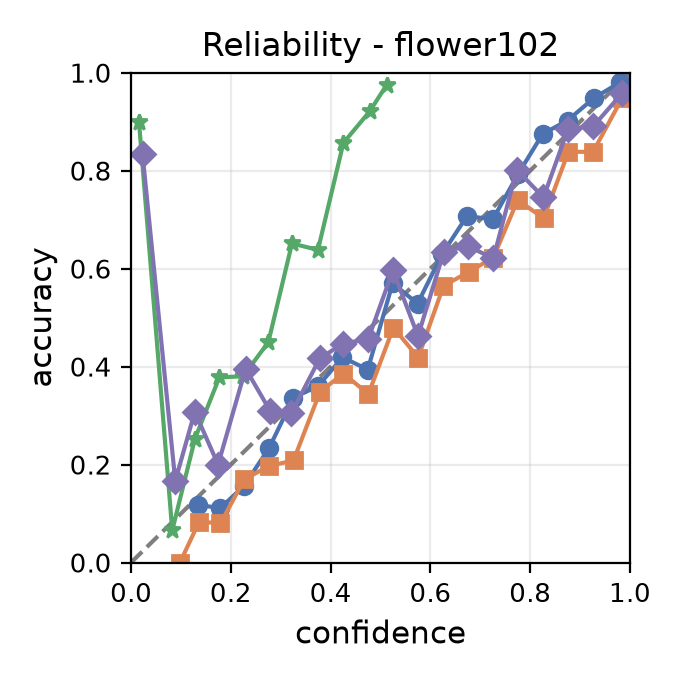
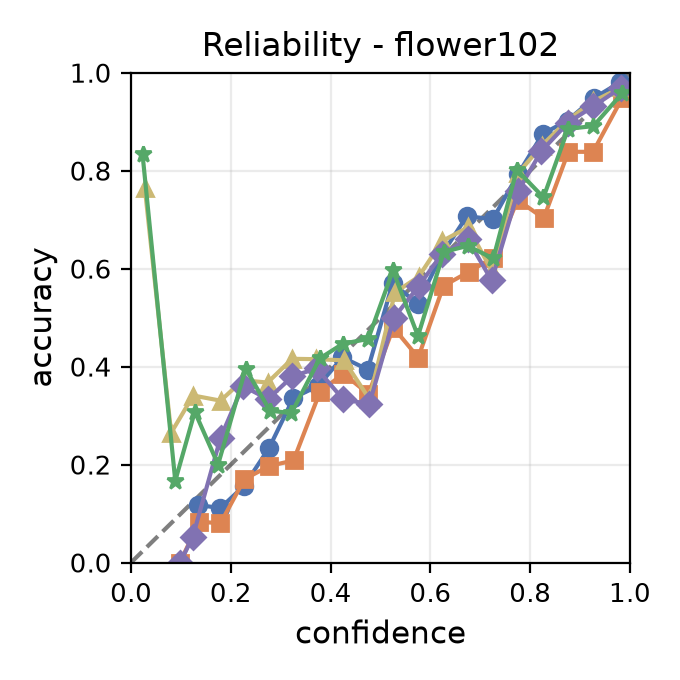
feat(figures): scatter and reliability diagrams over the five headline methods

diff --git a/analysis/make_figures.py b/analysis/make_figures.py
@@ -1,7 +1,9 @@
 """Generate every figure the report uses. No manual plotting, ever.
 
 Headline claim, stated visually: our point should sit as far right as TDA
-(same accuracy) but as far down as zero-shot CLIP (honest confidence).
+(same accuracy) but as far down as zero-shot CLIP (honest confidence). The
+five series in the scatter, the reliability panels and their shared legend
+all come from METHOD_STYLE, so the three cannot disagree.
 """
 
 from __future__ import annotations
@@ -17,26 +19,29 @@ matplotlib.use("Agg")  # headless: figures are files, not windows
 import matplotlib.pyplot as plt  # noqa: E402
 import pandas as pd  # noqa: E402
 
+# The five headline methods, in results/summary.csv's METHOD_ORDER. One dict
+# drives the scatter, every reliability panel and the shared legend, so the
+# three cannot list different series. `cal_tda_gate` is the recommended method.
+# The fifth hue (#CCB974, muted yellow) was chosen away from the four existing
+# method hues and from the five dataset-connector hues below.
 METHOD_STYLE = {
     "clipzs": {"label": "CLIP zero-shot", "marker": "o", "color": "#4C72B0"},
     "tda": {"label": "TDA (CVPR'24)", "marker": "s", "color": "#DD8452"},
-    "cal_tda": {"label": "Ours, all 3 contributions (loses on ECE)", "marker": "*", "color": "#55A868"},
-}
-# The ablation's best-performing variant (LOO temperature scaling alone, margin
-# admission and probabilistic fusion both off) -- the configuration the README
-# actually recommends, not the three-contribution bundle above. Plotted
-# separately so the headline figure shows the result this project stands
-# behind, not just the one it argues against.
-TEMP_VARIANT_STYLE = {
-    "label": "Ours, temperature only (recommended)", "marker": "D", "color": "#8172B2",
+    "cal_tda_gate_temp": {
+        "label": "Ours: gated fusion + LOO temperature", "marker": "^", "color": "#CCB974",
+    },
+    "cal_tda_gate": {
+        "label": "Ours: gated fusion (recommended)", "marker": "D", "color": "#8172B2",
+    },
+    "cal_tda_temp": {"label": "Ours: LOO temperature", "marker": "*", "color": "#55A868"},
 }
 
 # Connector colours for the per-dataset lines in the headline scatter. Marker
 # colour already encodes the method, so one flat grey for every connector left
 # DTD's and EuroSAT's point clouds interleaved with no way to tell which point
-# belonged to which line. These hues are deliberately chosen away from the four
-# method colours above (blue / orange / green / purple) so a thin connector is
-# never mistaken for a marker's colour.
+# belonged to which line. These hues are deliberately chosen away from the five
+# method colours above (blue / orange / yellow / purple / green) so a thin
+# connector is never mistaken for a marker's colour.
 DATASET_LINE_COLORS = [
     "#C44E52",  # red
     "#937860",  # brown
@@ -46,9 +51,7 @@ DATASET_LINE_COLORS = [
 ]
 
 
-def plot_accuracy_vs_ece(
-    summary: pd.DataFrame, out_path: Path, temp_variant: pd.DataFrame | None = None
-) -> None:
+def plot_accuracy_vs_ece(summary: pd.DataFrame, out_path: Path) -> None:
     fig, ax = plt.subplots(figsize=(6.5, 5))
     for method, style in METHOD_STYLE.items():
         subset = summary[summary["method"] == method]
@@ -59,17 +62,8 @@ def plot_accuracy_vs_ece(
             marker=style["marker"], color=style["color"], s=110,
             label=style["label"], edgecolors="white", linewidths=0.8, zorder=3,
         )
-    if temp_variant is not None and not temp_variant.empty:
-        style = TEMP_VARIANT_STYLE
-        ax.scatter(
-            temp_variant["accuracy"], temp_variant["ece"],
-            marker=style["marker"], color=style["color"], s=110,
-            label=style["label"], edgecolors="white", linewidths=0.8, zorder=3,
-        )
-    # The grey polyline joins every point belonging to one dataset, so the eye can
-    # follow a single dataset across methods. The temp-only variant is one of those
-    # points -- it was previously scattered but left off the line, which made the
-    # recommended configuration look like it belonged to no dataset at all.
+    # The polyline joins every point belonging to one dataset, so the eye can
+    # follow a single dataset across methods.
     #
     # Points are joined in increasing accuracy, not in method order. Method order
     # makes the path double back on itself (TDA is the most accurate on most
@@ -78,16 +72,9 @@ def plot_accuracy_vs_ece(
     # The line carries no ordering meaning of its own -- it only says "same
     # dataset" -- so sorting by x costs nothing and guarantees a path that never
     # crosses itself.
-    temp_by_dataset = (
-        temp_variant.set_index("dataset") if temp_variant is not None and not temp_variant.empty
-        else None
-    )
     for index, (dataset, group) in enumerate(summary.groupby("dataset")):
         ordered = group.set_index("method").reindex(METHOD_STYLE).dropna(subset=["accuracy"])
         points = list(zip(ordered["accuracy"], ordered["ece"]))
-        if temp_by_dataset is not None and dataset in temp_by_dataset.index:
-            row = temp_by_dataset.loc[dataset]
-            points.append((row["accuracy"], row["ece"]))
         if not points:
             continue
         points.sort(key=lambda p: p[0])
@@ -118,11 +105,8 @@ def plot_accuracy_vs_ece(
     plt.close(fig)
 
 
-def plot_reliability(
-    raw_dir: Path, dataset: str, out_path: Path, ablation_raw_dir: Path | None = None
-) -> None:
-    """One reliability curve per headline method, plus the ablation's `temp` variant if
-    `ablation_raw_dir` has a record for this dataset.
+def plot_reliability(raw_dir: Path, dataset: str, out_path: Path) -> None:
+    """One reliability curve per headline method (every key of METHOD_STYLE).
 
     A record that is silently missing must not produce a figure that looks like a complete
     one with fewer curves -- on a fresh clone without `results/raw/` committed, this used to
@@ -143,7 +127,8 @@ def plot_reliability(
         record_path = raw_dir / f"{dataset}_{method}.json"
         if not record_path.exists():
             warnings.warn(
-                f"plot_reliability({dataset}): no run record at {record_path} -- the "
+                f"plot_reliability({dataset}): no run record for method '{method}' at "
+                f"{record_path} -- the "
                 f"'{style['label']}' curve will be MISSING from {out_path.name}, not just "
                 f"absent from this dataset by design. Check results/raw/ is populated "
                 f"(committed, or regenerated by scripts/run_all).",
@@ -160,26 +145,6 @@ def plot_reliability(
             [p[0] for p in points], [p[1] for p in points],
             marker=style["marker"], color=style["color"], label=style["label"], linewidth=1.5,
         )
-
-    if ablation_raw_dir is not None:
-        temp_path = Path(ablation_raw_dir) / f"{dataset}_temp.json"
-        if temp_path.exists():
-            curve = json.loads(temp_path.read_text(encoding="utf-8"))["reliability"]
-            points = [
-                (c, a) for c, a, n in zip(curve["bin_conf"], curve["bin_acc"], curve["bin_count"]) if n > 0
-            ]
-            if points:
-                style = TEMP_VARIANT_STYLE
-                ax.plot(
-                    [p[0] for p in points], [p[1] for p in points],
-                    marker=style["marker"], color=style["color"], label=style["label"], linewidth=1.5,
-                )
-        else:
-            warnings.warn(
-                f"plot_reliability({dataset}): no ablation record at {temp_path} -- the "
-                f"recommended temp-only curve will be MISSING from {out_path.name}.",
-                stacklevel=2,
-            )
 
     # These panels are placed five-to-a-figure in the report, each scaled to about
     # 0.48\textwidth -- roughly 0.6x. Matplotlib's defaults (10pt) land near 6pt on
@@ -213,7 +178,7 @@ def plot_reliability_legend(out_path: Path) -> None:
         ax.plot([], [], linestyle="--", color="black", alpha=0.5,
                 label="perfect calibration")[0],
     ]
-    for style in list(METHOD_STYLE.values()) + [TEMP_VARIANT_STYLE]:
+    for style in METHOD_STYLE.values():
         handles.append(
             ax.plot([], [], marker=style["marker"], color=style["color"],
                     linewidth=1.5, label=style["label"])[0]
@@ -242,7 +207,7 @@ def plot_reliability_legend(out_path: Path) -> None:
 #      collision a protan viewer cannot resolve at all. It gets a hatch and a
 #      bold label instead, which is secondary encoding rather than a fourth
 #      colour nobody can see.
-# #7D5BA6 is a higher-chroma step of TEMP_VARIANT_STYLE's #8172B2, which reads
+# #7D5BA6 is a higher-chroma step of METHOD_STYLE["cal_tda_gate"]'s #8172B2, which reads
 # as grey at bar size (chroma 0.097, under the 0.1 floor) and would have been
 # indistinguishable from the recessive bars it is supposed to stand out from.
 ABLATION_WINNER_COLOR = "#7D5BA6"
@@ -375,25 +340,18 @@ def plot_ablation_ece(
 
 
 def make_all_figures(
-    summary_csv, raw_dir, figures_dir, ablation_csv=None, ablation_raw_dir=None,
-    ablation_gate_csv=None,
+    summary_csv, raw_dir, figures_dir, ablation_csv=None, ablation_gate_csv=None,
 ) -> None:
     summary = pd.read_csv(summary_csv)
     raw_dir = Path(raw_dir)
     figures_dir = Path(figures_dir)
     figures_dir.mkdir(parents=True, exist_ok=True)
 
-    temp_variant = None
     ablation = None
-    if ablation_csv is not None:
-        ablation_csv = Path(ablation_csv)
-        if ablation_csv.exists():
-            ablation = pd.read_csv(ablation_csv)
-            temp_variant = ablation[ablation["variant"] == "temp"][["dataset", "accuracy", "ece"]]
+    if ablation_csv is not None and Path(ablation_csv).exists():
+        ablation = pd.read_csv(ablation_csv)
 
-    ablation_raw_dir = Path(ablation_raw_dir) if ablation_raw_dir is not None else None
-
-    plot_accuracy_vs_ece(summary, figures_dir / "accuracy_vs_ece.png", temp_variant)
+    plot_accuracy_vs_ece(summary, figures_dir / "accuracy_vs_ece.png")
     if ablation is not None:
         plot_ablation_ece(ablation, figures_dir / "ablation_ece.png")
     if ablation_gate_csv is not None and Path(ablation_gate_csv).exists():
@@ -405,10 +363,7 @@ def make_all_figures(
         )
     plot_reliability_legend(figures_dir / "reliability_legend.png")
     for dataset in summary["dataset"].unique():
-        plot_reliability(
-            raw_dir, dataset, figures_dir / f"reliability_{dataset}.png",
-            ablation_raw_dir=ablation_raw_dir,
-        )
+        plot_reliability(raw_dir, dataset, figures_dir / f"reliability_{dataset}.png")
 
 
 def main() -> None:
@@ -418,11 +373,7 @@ def main() -> None:
     parser.add_argument("--figures-dir", default="analysis/figures")
     parser.add_argument(
         "--ablation-csv", default="results/ablation.csv",
-        help="adds the ablation's temp-only variant to the headline scatter, if present",
-    )
-    parser.add_argument(
-        "--ablation-raw-dir", default="results/raw/ablation",
-        help="adds the ablation's temp-only reliability curve to each per-dataset diagram",
+        help="the first ablation (three contributions); adds its bar chart, if present",
     )
     parser.add_argument(
         "--ablation-gate-csv", default="results/ablation_gate.csv",
@@ -432,7 +383,7 @@ def main() -> None:
 
     make_all_figures(
         args.summary_csv, args.raw_dir, args.figures_dir, args.ablation_csv,
-        args.ablation_raw_dir, ablation_gate_csv=args.ablation_gate_csv,
+        ablation_gate_csv=args.ablation_gate_csv,
     )
     print(f"wrote figures to {args.figures_dir}")
 

diff --git a/tests/test_make_figures.py b/tests/test_make_figures.py
@@ -13,7 +13,8 @@ def fake_results(tmp_path):
     rows = []
     for dataset in ["dtd", "pets"]:
         for method, accuracy, ece in [
-            ("clipzs", 40.2, 5.7), ("tda", 43.1, 9.2), ("cal_tda", 43.0, 6.1)
+            ("clipzs", 40.2, 5.7), ("tda", 43.1, 9.2), ("cal_tda_gate_temp", 42.0, 6.5),
+            ("cal_tda_gate", 42.0, 4.9), ("cal_tda_temp", 43.1, 7.0),
         ]:
             rows.append({
                 "dataset": dataset, "method": method, "accuracy": accuracy, "ece": ece,
@@ -32,6 +33,24 @@ def fake_results(tmp_path):
     summary = tmp_path / "summary.csv"
     pd.DataFrame(rows).to_csv(summary, index=False)
     return summary, raw, tmp_path / "figures"
+
+
+def test_legend_lists_every_headline_method():
+    from analysis.aggregate import METHOD_ORDER
+    from analysis.make_figures import METHOD_STYLE
+    assert list(METHOD_STYLE) == METHOD_ORDER
+
+
+def test_missing_headline_record_warns(fake_results):
+    summary, raw, figures = fake_results
+    (raw / "dtd_cal_tda_gate.json").unlink()
+    with pytest.warns(UserWarning, match="cal_tda_gate"):
+        make_all_figures(summary, raw, figures)
+
+
+def test_make_all_figures_no_longer_takes_an_ablation_raw_dir():
+    import inspect
+    assert "ablation_raw_dir" not in inspect.signature(make_all_figures).parameters
 
 
 def test_creates_the_headline_scatter(fake_results):
